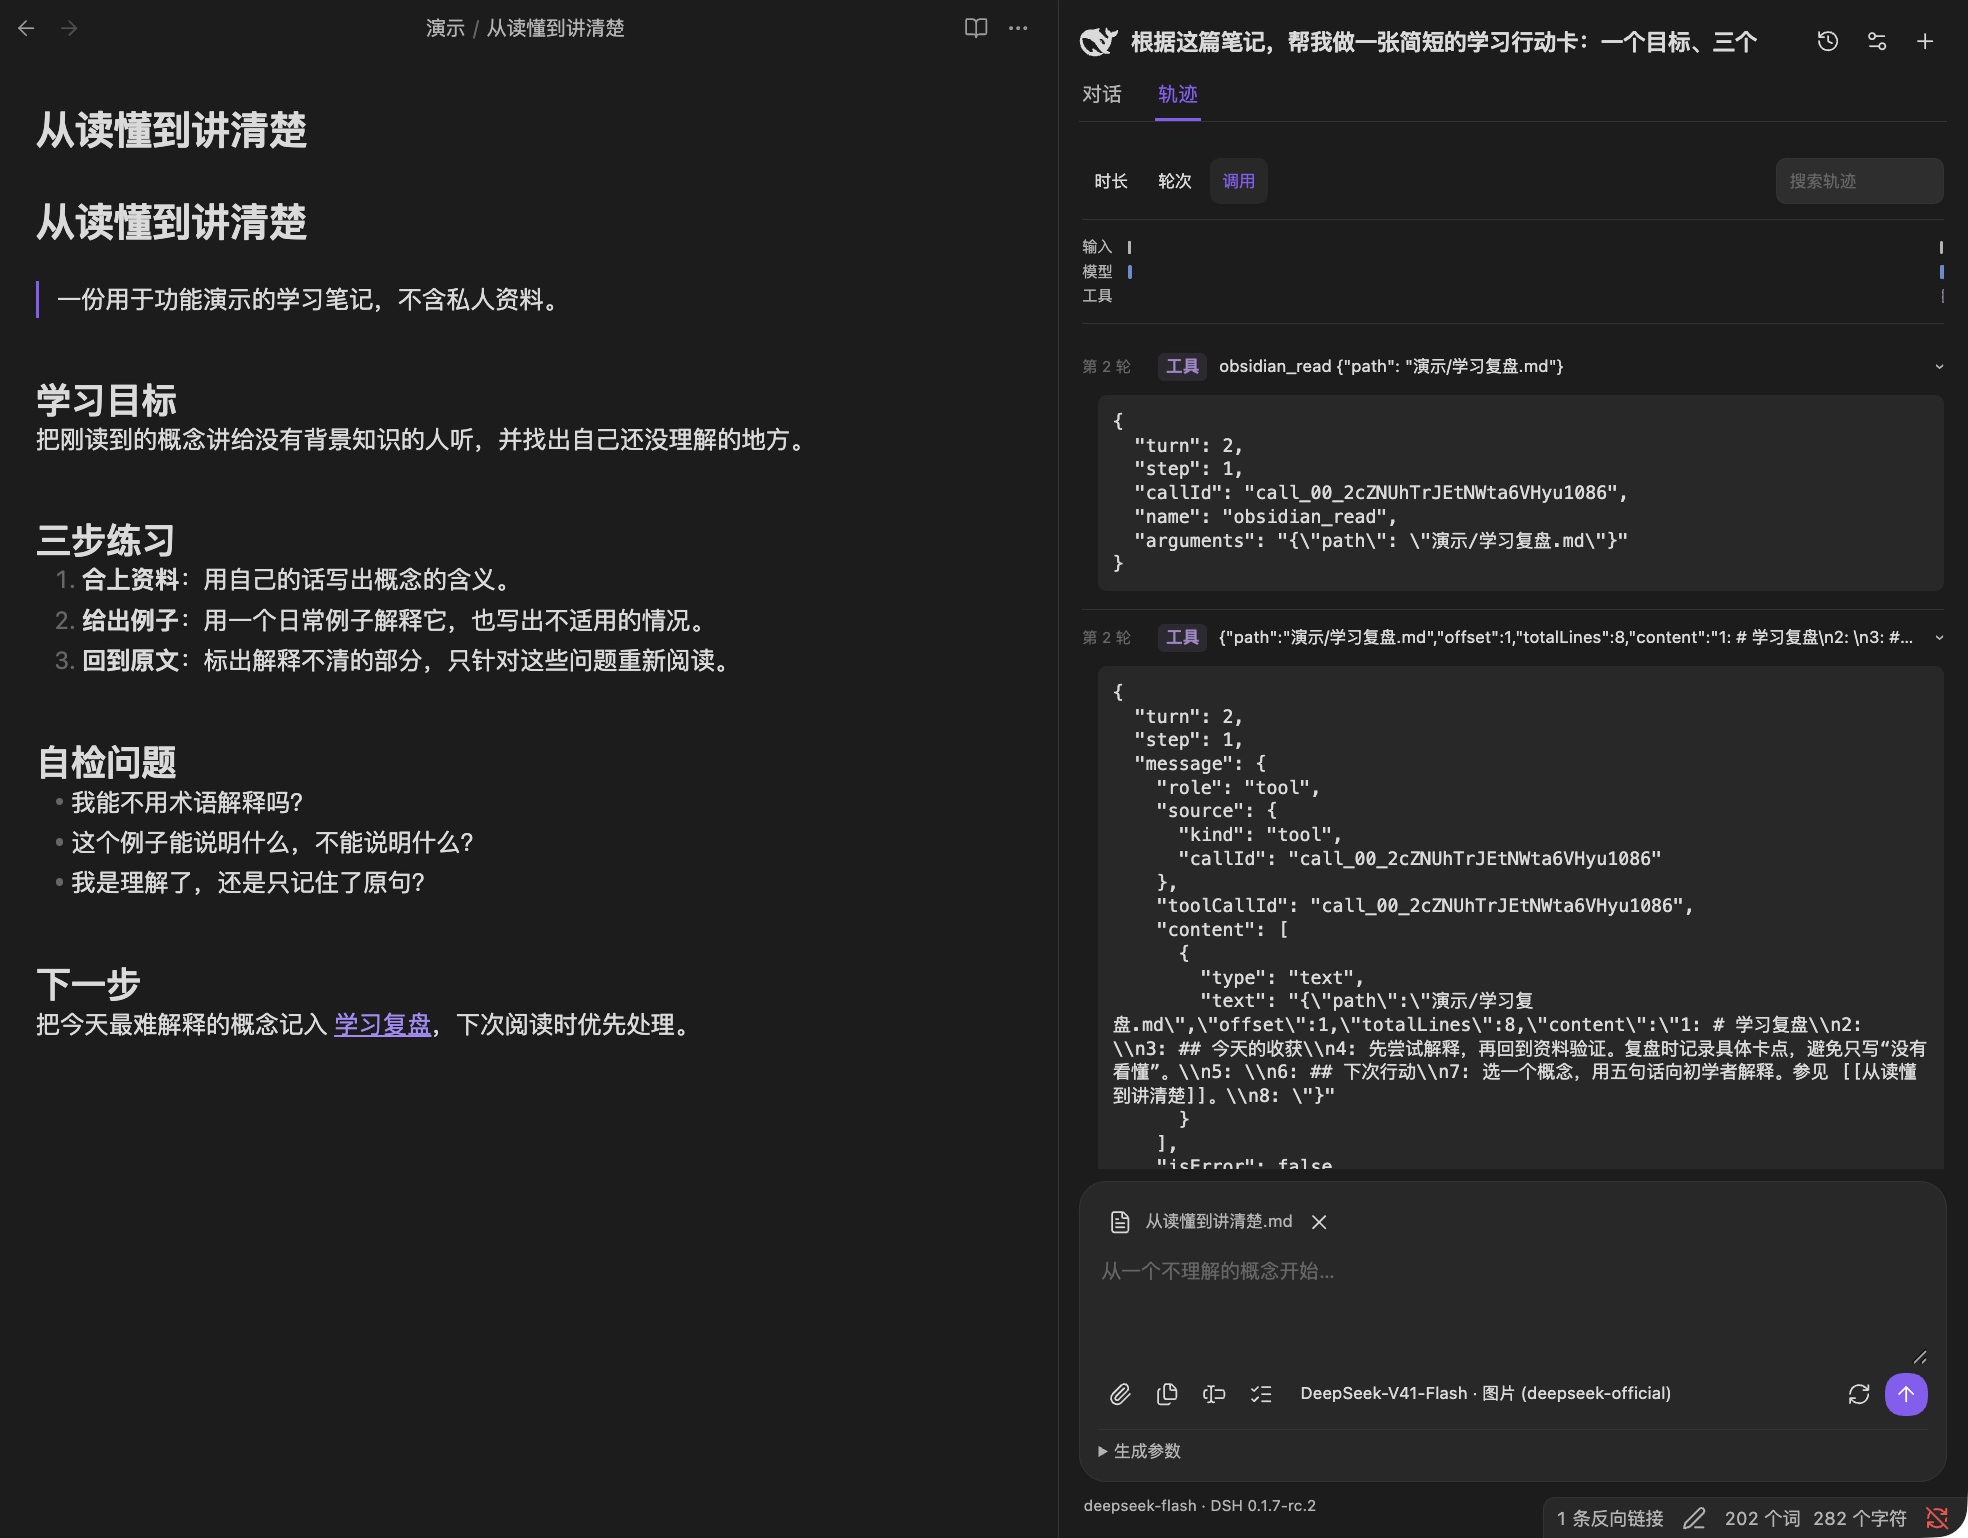
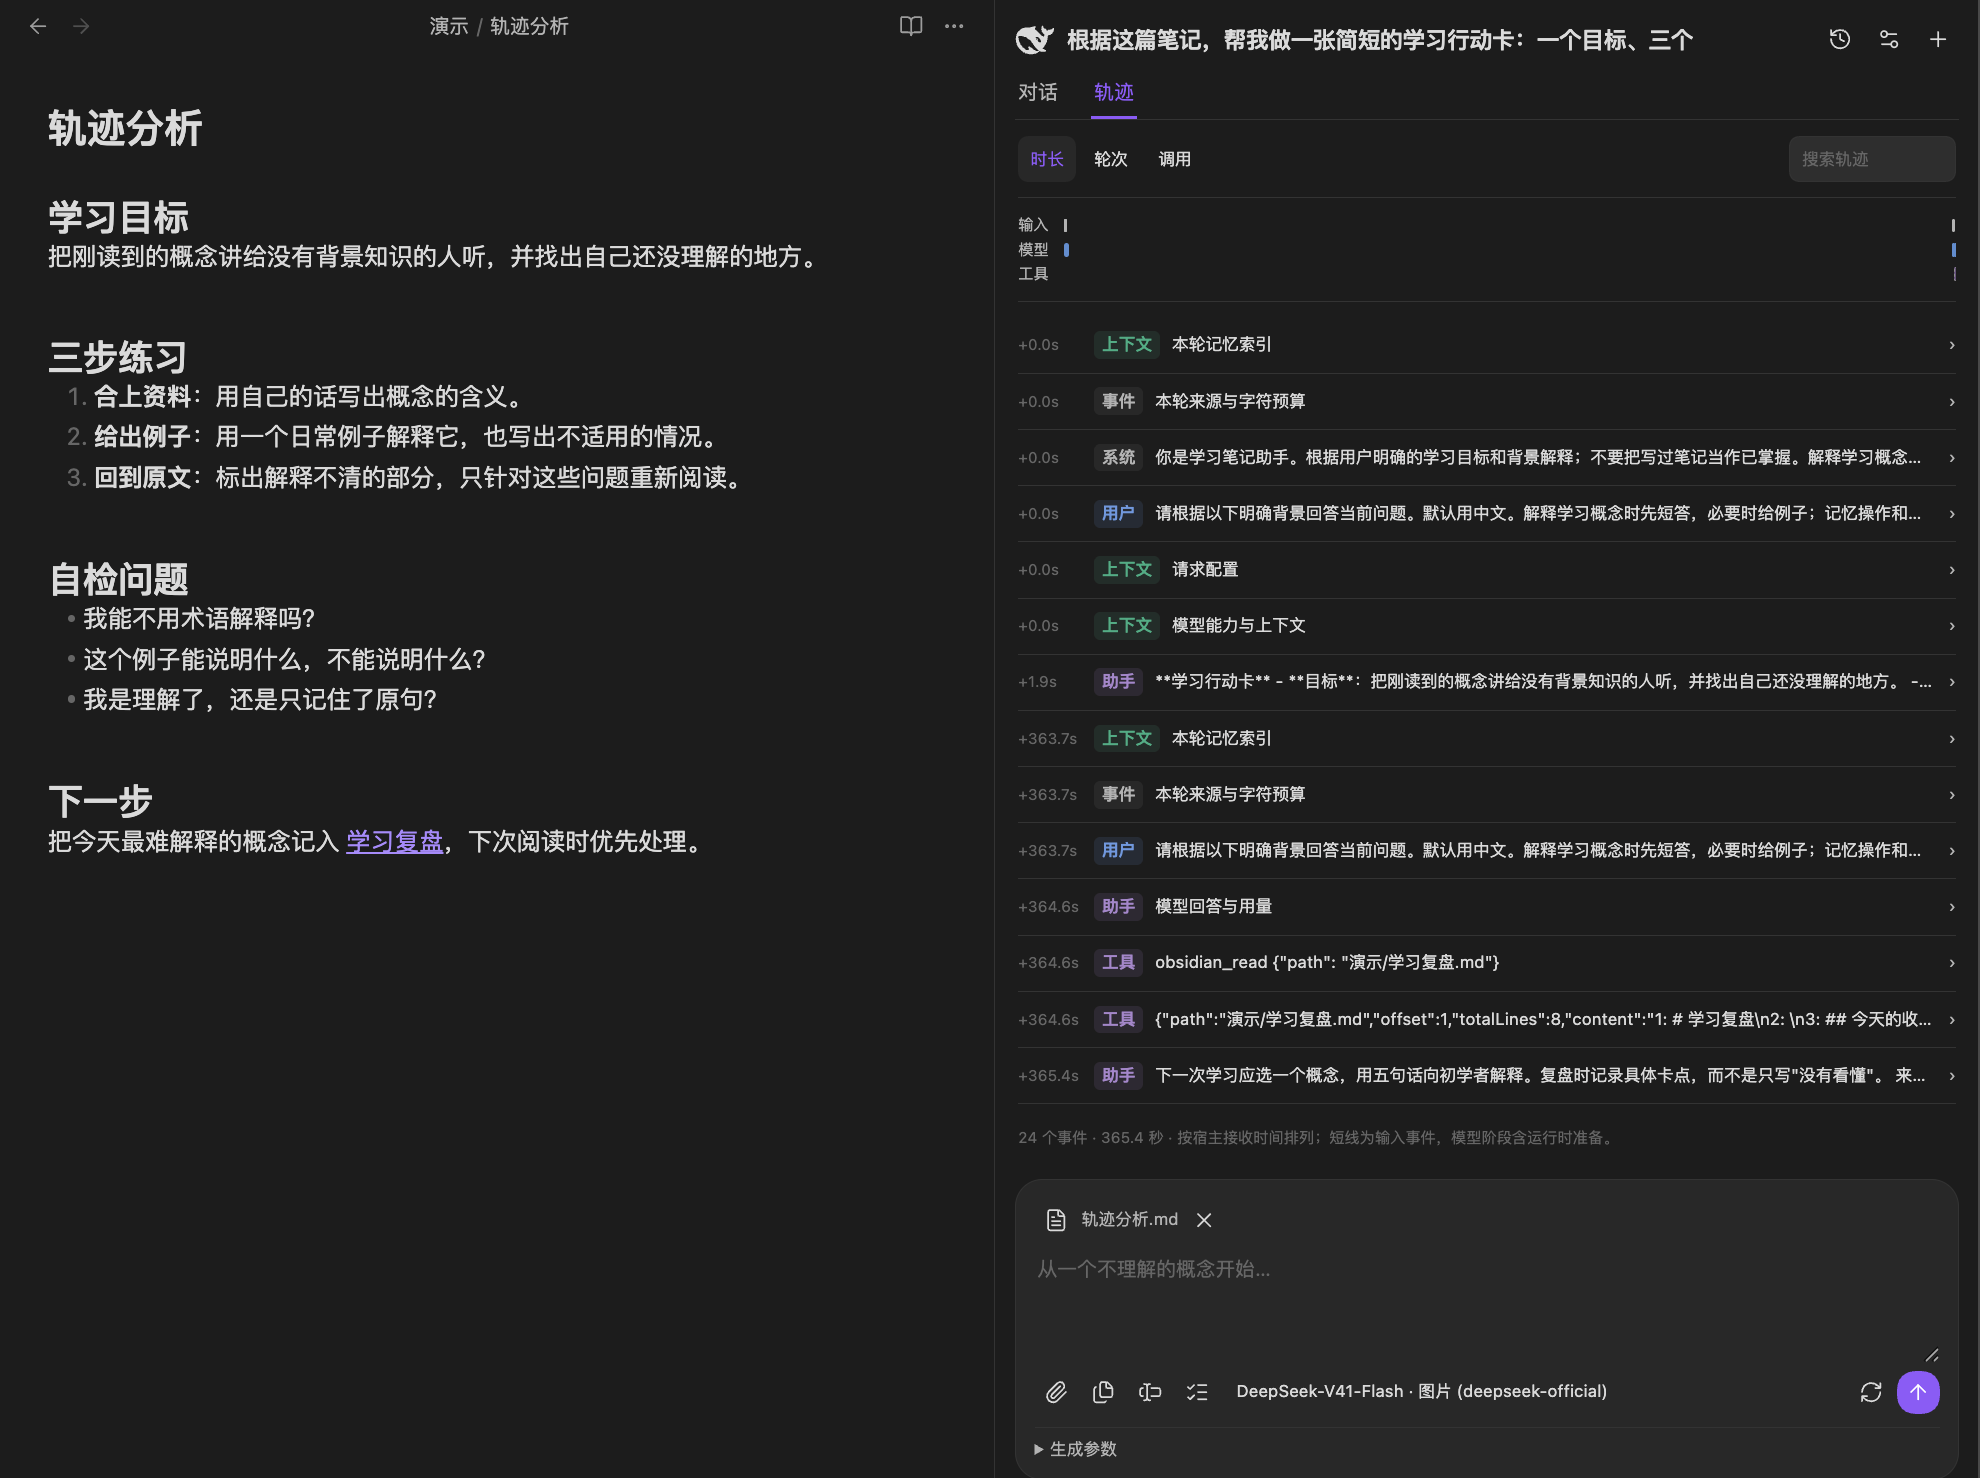
fix: number forked conversations and remove unused screenshots
- add unique numbered suffixes to new fork titles
- preserve existing titles and verify persistence
- remove nine unused screenshots and update documentation

diff --git a/tests/host.test.ts b/tests/host.test.ts
@@ -463,6 +463,7 @@ test('fork publishes only after runtime and host persistence succeed; inherited 
   let saved:any;p.saveData=async(value:any)=>{saves++;saved=structuredClone(value);};
   await p.forkChat(1);
   const child=p.chat;assert.notEqual(child.id,parent.id);assert.equal(child.messages.length,2);
+  assert.equal(child.title,'学习分支（1）');assert.equal(saved.chats[0].title,child.title);
   assert.equal(child.goal,parent.goal);assert.equal(child.useMemory,false);assert.equal(child.fork.parentId,parent.id);
   assert.equal(saved.activeId,child.id);assert.equal(forks,2);assert.equal(saves,2);
   assert.equal(memorySourceStart(child),2);assert.deepEqual(contributionSources(child),[]);
@@ -470,6 +471,28 @@ test('fork publishes only after runtime and host persistence succeed; inherited 
   child.messages.push({role:'user',text:'新的问题'});assert.equal(contributionSources(child).length,1);
   child.messages[0].attachments.push('another.png');assert.deepEqual(parent.messages[0].attachments,['image.png']);
   child.messages[0].text='modified';assert.throws(()=>contributionSources(child),/继承记录已改变/);
+});
+
+test('fork titles stay distinct across siblings, nested forks and restored history',async()=>{
+  const p=new Deepsidian();p.capture=()=>{};
+  const parent={id:'parent',title:'一个超过二十四个字符的原始会话标题，用来验证编号不会截断标题（2）',messages:[
+    {role:'user',text:'question'},{role:'assistant',text:'answer',status:'完成',forkSeq:7}]};
+  p.state.chats=[parent];p.state.activeId=parent.id;
+  p.connect=async()=>({fork:async()=>{}});
+  let saved:any;p.saveData=async(value:any)=>{saved=structuredClone(value);};
+  await p.forkChat(1);const first=p.chat;
+  assert.equal(first.title,`${parent.title}（1）`);
+  await p.selectChat(parent.id);await p.forkChat(1);
+  assert.equal(p.chat.title,`${parent.title}（2）`);
+  p.state=saved;await p.selectChat(first.id);await p.forkChat(1);
+  assert.equal(p.chat.title,`${parent.title}（3）`);
+  assert.equal(p.chat.fork.parentTitle,first.title);
+  assert.equal(p.state.chats.find((c:any)=>c.id===parent.id).title,parent.title);
+  // A legacy branch keeps its saved title; its next child gets a numbered title.
+  const legacy={...structuredClone(first),id:'legacy',title:'旧标题 · 分支'};
+  p.state.chats.push(legacy,{id:'unrelated',title:'旧标题（1）',messages:[]});
+  await p.selectChat(legacy.id);await p.forkChat(1);
+  assert.equal(p.chat.title,'旧标题（2）');assert.equal(legacy.title,'旧标题 · 分支');
 });
 
 test('fork rejects legacy, failed and busy answers and leaves parent selected on runtime failure',async()=>{

diff --git a/src/plugin/main.ts b/src/plugin/main.ts
@@ -36,6 +36,7 @@ import { MemoryScheduler, newIdleMemory, type IdleMemoryState } from './memory/s
 import {KnowledgeTools} from './knowledge';
 import {CatalogModal} from './catalog';
 import {SourcesModal} from './sources-modal';
+import { nextForkTitle } from './chat-title';
 
 export default class Deepsidian extends Plugin {
   state: Saved = { settings: { ...defaults }, chats: [], activeId: '' };
@@ -453,7 +454,7 @@ export default class Deepsidian extends Plugin {
     const parent = this.chat, answer = parent?.messages[messageIndex];
     if (!parent || answer?.role !== 'assistant' || answer.status !== '完成' || !Number.isSafeInteger(answer.forkSeq) || answer.forkSeq! < 0)
       throw Error('此回答没有可靠的分支位置，请从更新后的完整回答创建分支');
-    const chat: Chat = { id: randomUUID(), title: `${parent.title.slice(0, 24)} · 分支`,
+    const chat: Chat = { id: randomUUID(), title: nextForkTitle(parent, this.state.chats),
       messages: structuredClone(parent.messages.slice(0, messageIndex + 1)), goal: parent.goal,
       useMemory: parent.useMemory, contributeMemory: parent.contributeMemory };
     chat.fork = { parentId: parent.id, parentTitle: parent.title, messageIndex, atSeq: answer.forkSeq!,

diff --git a/src/plugin/chat-title.ts b/src/plugin/chat-title.ts
@@ -1,0 +1,12 @@
+import type { Chat } from './types';
+
+export function nextForkTitle(parent: Chat, chats: readonly Chat[]): string {
+  // Only strip generated suffixes from branches; a root may legitimately end in a number.
+  const base = parent.fork
+    ? parent.title.replace(/(?: · 分支)+$|（[1-9]\d*）$/u, '')
+    : parent.title;
+  const titles = new Set(chats.map(chat => chat.title));
+  let number = 1;
+  while (titles.has(`${base}（${number}）`)) number++;
+  return `${base}（${number}）`;
+}

diff --git a/docs/screenshots/README.md b/docs/screenshots/README.md
@@ -10,4 +10,6 @@ The pointer was parked on the far-left ribbon. The exported images crop the left
 - `trace-0.7.1.png`: actual `obsidian_read` request and returned note lines.
 - `catalog-0.7.1.png`: local scan before confirming file creation.
 
-See the [walkthrough](../DEMO.md) and [demo notes](../demo-notes). Older image files remain for historical documentation; the current README uses only the 0.7.1 captures.
+See the [walkthrough](../DEMO.md) and [demo notes](../demo-notes). Only `memory-maintenance.png` and `memory-session.png` remain from older versions because [Memory design](../MEMORY-DESIGN.md) still references them. Unreferenced older captures have been removed. The current README uses only the 0.7.1 captures.
+
+The fork capture shows the released 0.7.1 title format. The next unreleased build names new branches with numbered suffixes such as `Title（1）` and `Title（2）`; existing saved titles are preserved.

diff --git a/docs/DEMO.md b/docs/DEMO.md
@@ -34,6 +34,8 @@ Under a completed answer, choose **分支到新聊天**. The new chat inherits h
 
 Creating a fork makes no model request. Follow-up messages use the selected provider. Notes and vault memory remain shared; forks do not automatically merge or return conclusions. Restoring the fork after an Obsidian reload was verified separately during this acceptance run.
 
+Unreleased change: newly created branches use numbered title suffixes such as `Title（1）` and `Title（2）`, including forks of a branch. Existing titles are preserved; the screenshot below records the released 0.7.1 format.
+
 ![Independent conversation branch](screenshots/fork-0.7.1.png)
 
 ## 4. Inspect a real tool call

diff --git a/docs/DEMO.zh-CN.md b/docs/DEMO.zh-CN.md
@@ -34,6 +34,8 @@
 
 创建分支本身不调用模型，后续提问仍按供应商计费。分支隔离聊天历史，但笔记和本库记忆仍共享，不自动合并或回传结论。本轮验收还单独验证了重载 Obsidian 后恢复分支。
 
+未发布变更：新分支使用 `原标题（1）`、`原标题（2）` 等编号后缀，从分支继续分支时也按同一标题编号。已有会话标题保留；下图记录的仍是正式 0.7.1 的标题格式。
+
 ![独立会话分支及来源入口](screenshots/fork-0.7.1.png)
 
 ## 4. 看清模型实际调用了什么
